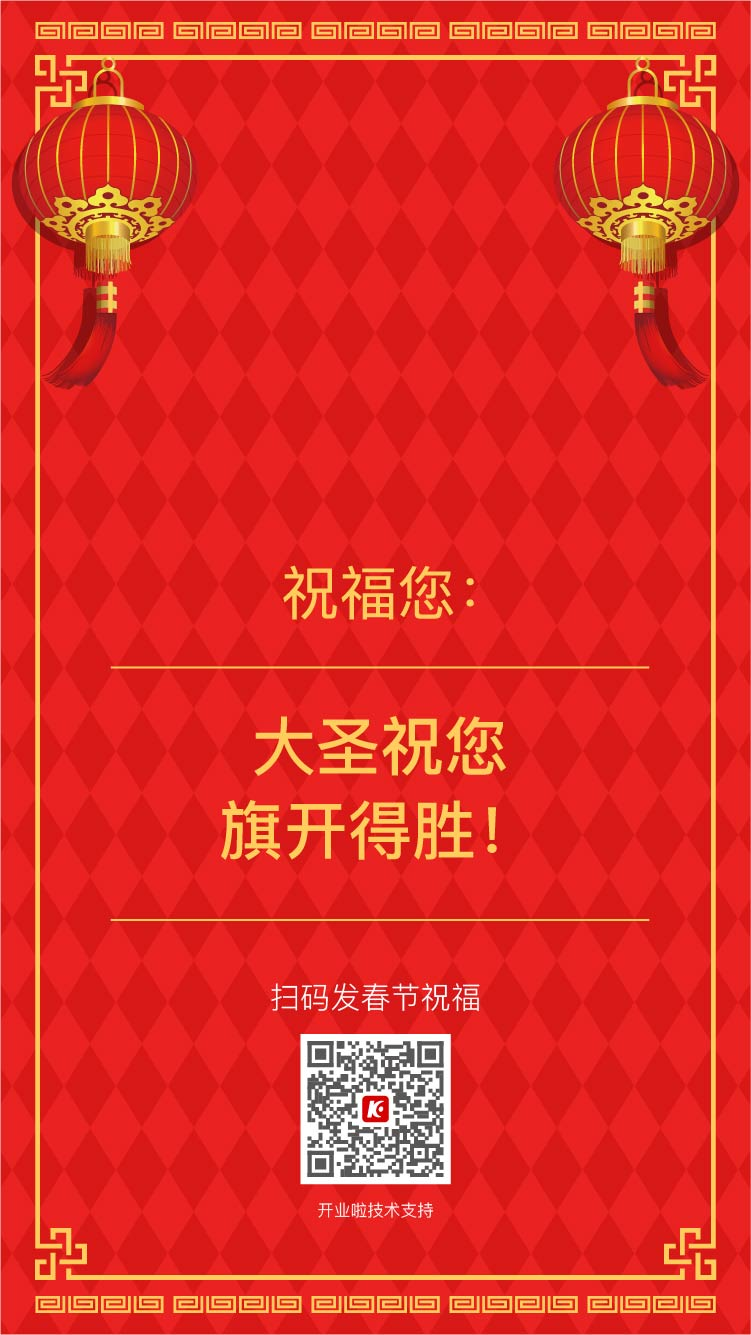
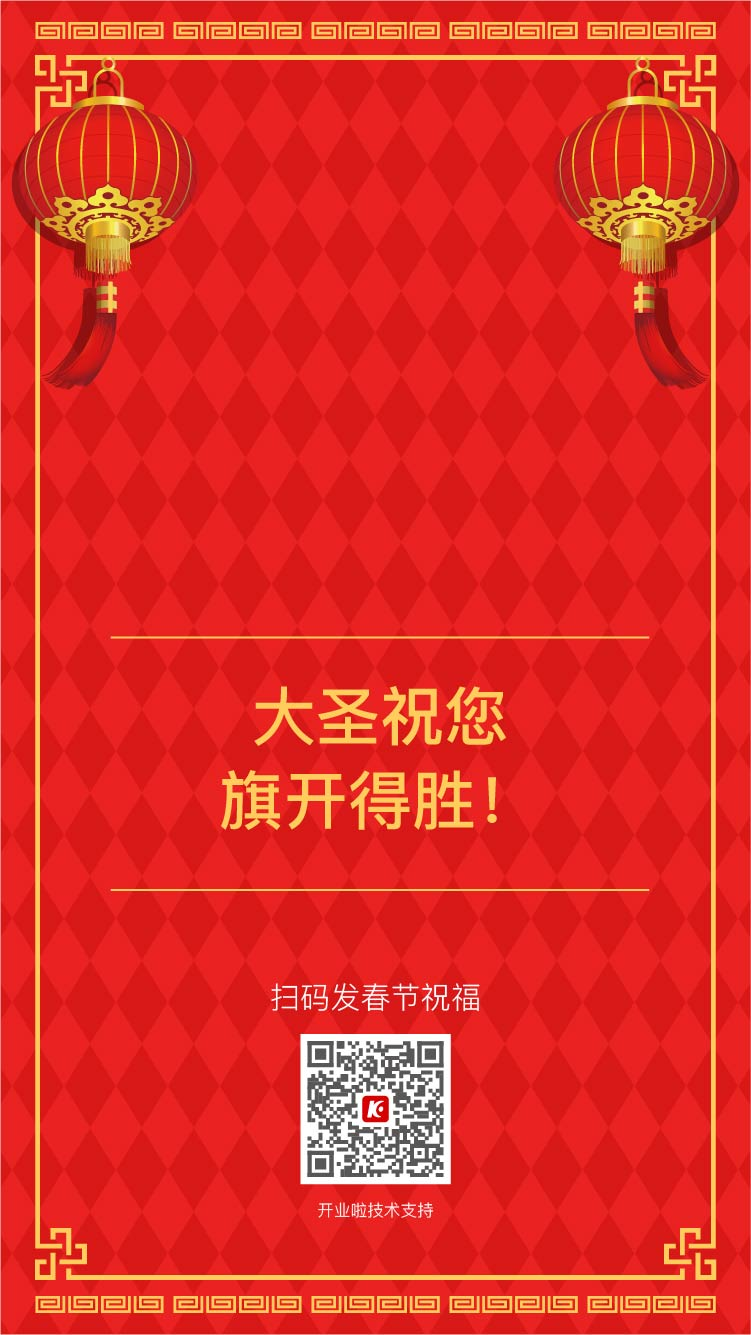
调整名称个数

Changed region(s): [[0.2756, 0.3993, 0.6738, 0.6449]]

diff --git a/lib/poster.js b/lib/poster.js
@@ -21,6 +21,32 @@ function Poster(){
 module.exports = Poster;
 // -----------------------------------------------------------------
 
+function strlen(str){ 
+	var s=0; // 汉字个数
+	var  t = 0; // 非汉字个数
+	for(var i=0;i<str.length;i++){ 
+		if(str.charAt(i)>'~'){
+			s++;
+		} else {
+			t++;
+		} 
+	} 
+	return {s: s, t: t}; 
+} 
+
+function HandleX(s, t) {
+	var posterWidth = 750;
+	var posterHeigth = 1334;
+	var wordLength = 57;
+
+	var length1 = s * wordLength + Math.floor((t) /2) * wordLength;
+	x = (posterWidth - length1) / 2 
+	return x;	
+}
+
+
+
+
 // 需要的参数： 
 // 1. 原始图片
 // 2. 用户图片
@@ -41,21 +67,61 @@ Poster.prototype.fillWord = function(options, callback) {
 		var username = options.username || "开业啦！";
 		log("imagePath: " + imagePath, "username: " + username)
 
-		gm(imagePath)
-		.stroke("#FFCD5C")
-		.fill("#FFCD5C")
-		.font("pingfangregular.ttf", 58)
-		.drawText(240, 440, username)
-		.write(_image, function (err) {
-			log(arguments)
-		  if(err) {
-		  	log("fillWord: write file error", err);
-		  	callback(err, null);
-		  } else {
-		  	log("fillWord: write file succeed");
-		  	callback(err, _image);
-		  }
-		});
+		var x = 250;
+		var y = 440;
+		var wordLength = 57;
+
+		var s = strlen(username).s;
+		var t = strlen(username).t;
+
+		if((s + t/2) <= 10) {
+			x = HandleX(s, t);
+
+			gm(imagePath)
+			.stroke("#FFCD5C")
+			.fill("#FFCD5C")
+			.font("microsoftyahei.ttf", wordLength)
+			.drawText(x, y + 70, username)
+			.font("microsoftyahei.ttf", wordLength)
+			.write(_image, function (err) {
+			  if(err) {
+			  	log("fillWord: write file error", err);
+			  	callback(err, null);
+			  } else {
+			  	log("fillWord: write file succeed");
+			  	callback(err, _image);
+			  }
+			});
+		} else {
+			str1 = username.slice(0, 10);
+			str2 = username.slice(10,20);
+
+			var s1 = strlen(str1).s;
+			var t1 = strlen(str1).t;	
+
+			x1 = HandleX(s1, t1);
+
+			var s2 = strlen(str2).s;
+			var t2 = strlen(str2).t;			
+			x2 = HandleX(s2, t2);
+
+			gm(imagePath)
+			.stroke("#FFCD5C")
+			.fill("#FFCD5C")
+			.font("microsoftyahei.ttf", wordLength)
+			.drawText(x1, y +70, str1)
+			.font("microsoftyahei.ttf", wordLength)
+			.drawText(x2, y + 140, str2)
+			.write(_image, function (err) {
+			  if(err) {
+			  	log("fillWord: write file error", err);
+			  	callback(err, null);
+			  } else {
+			  	log("fillWord: write file succeed");
+			  	callback(err, _image);
+			  }
+			});			
+		}
 	}
 }
 
@@ -74,7 +140,7 @@ Poster.prototype.handlePhoto = function(options, callback) {
 		var userimage = options.userimage; // 用户图像
 		// 合成图片
 		gm(userimage)
-		.resize(255, 255)
+		.resize(250, 250)
 		.compress("jpeg")
 		.write(userimage, function(err) {
 			if(err) {
@@ -84,7 +150,7 @@ Poster.prototype.handlePhoto = function(options, callback) {
 				gm()
 				.in('-page', '+0+0')  // Custom place for each of the images
 				.in(image)
-				.in('-page', '+256+100')
+				.in('-page', '+250+150')
 				.in(userimage)
 				.quality(100)
 				.minify()

diff --git a/lib/message.js b/lib/message.js
@@ -133,7 +133,7 @@ MessageServer.prototype.getMessage = function(req, res, next) {
 		    						imgLists.push(imgInfo.userimg); // 存储用户图像
 
 		    						// 随机选择背景图片
-		    						var canvasNum = Math.floor(Math.random() * 7) + 1;
+		    						var canvasNum = Math.floor(Math.random() * 10) + 1;
 		    						var filepath = path.join(__dirname, '../img/', "canvas" + canvasNum + '.jpg');
 
 		    						var fillWordOptions = {
